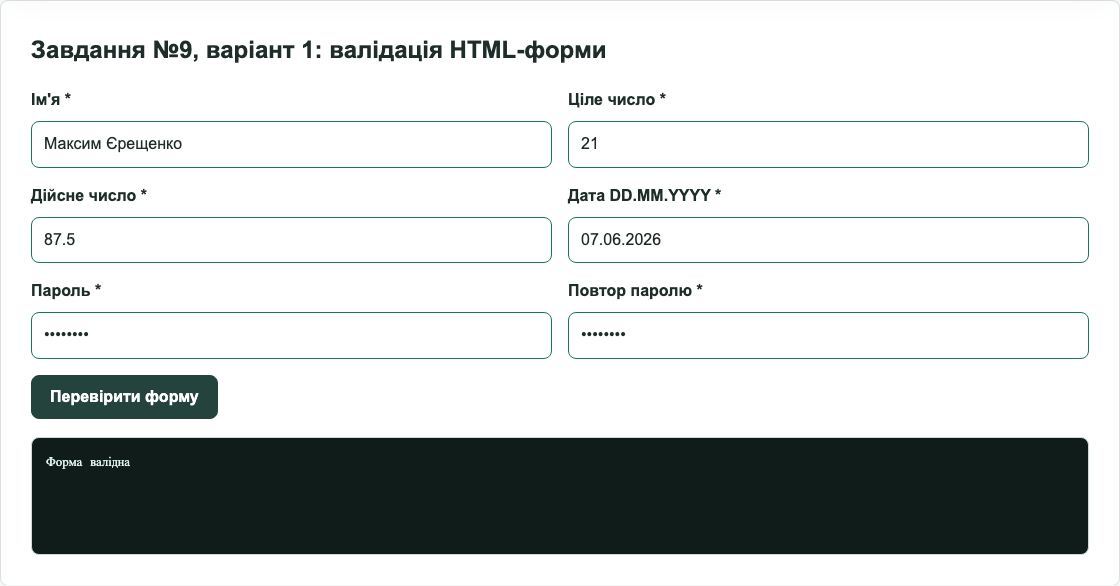
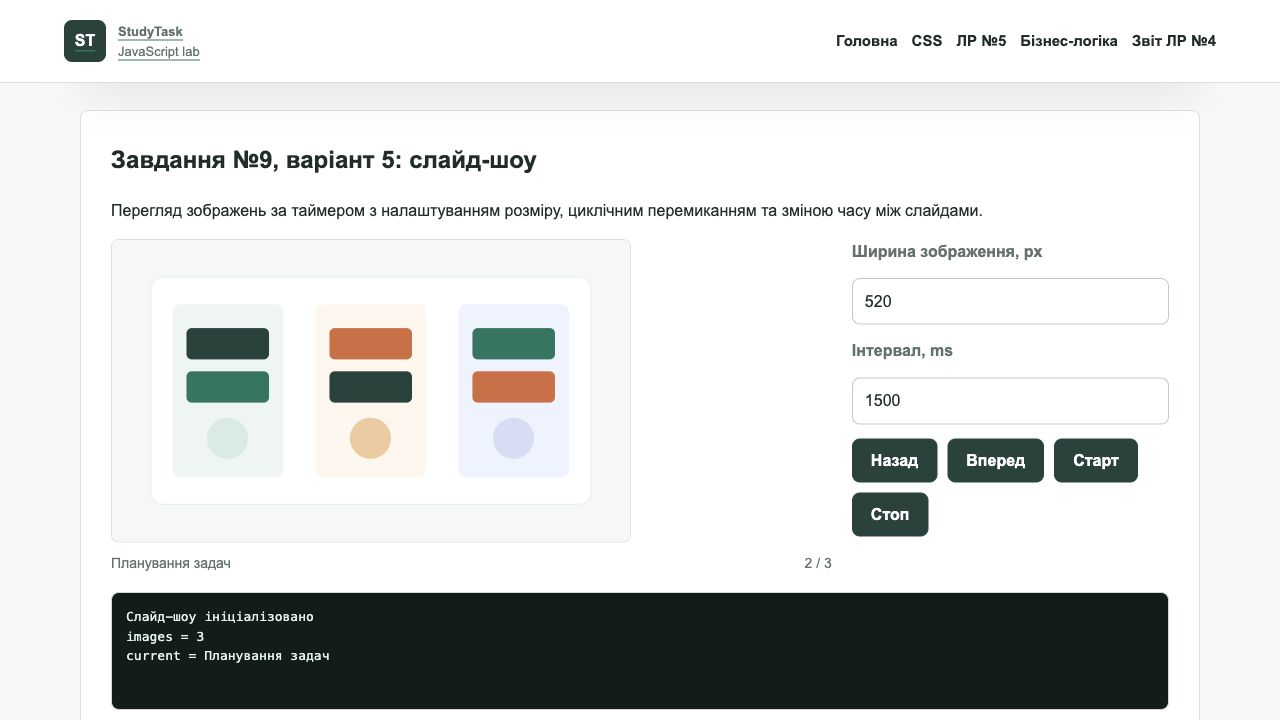
Оновлено звіт ЛР 4 після виправлення варіанта

diff --git a/index.html b/index.html
@@ -530,7 +530,7 @@ textarea[placeholder] {
               </tr>
               <tr>
                 <th scope="row">Варіант</th>
-                <td>Робоче припущення: непарна колонка для задач №1-6 та №8, варіант 1 для задач №7 і №9.</td>
+                <td>Номер у списку групи: 5. Для задач №1-6 та №8 використано непарну колонку, для задач №7 і №9 виконано варіант 5.</td>
               </tr>
               <tr>
                 <th scope="row">GitHub/GitHub Pages</th>
@@ -638,19 +638,20 @@ function authenticate(login, password) {
         </section>
 
         <section aria-labelledby="lab4-task7-title">
-          <h2 id="lab4-task7-title">Завдання №7: масив, перестановка, сортування вставкою</h2>
-          <p>Умова варіанта 1: створити масив, знайти максимальний серед парних елементів і мінімальний серед елементів з парними індексами, поміняти їх місцями, надрукувати масиви і виконати сортування вставкою.</p>
-          <pre class="code-block"><code>function processVariantOneArray(numbers) {
-  const swapped = [...numbers];
-  const maxEvenIndex = findIndexOfMaxEvenValue(swapped);
-  const minEvenIndexIndex = findIndexOfMinEvenIndex(swapped);
-  [swapped[maxEvenIndex], swapped[minEvenIndexIndex]] =
-    [swapped[minEvenIndexIndex], swapped[maxEvenIndex]];
-  return { source: numbers, swapped, sorted: insertionSortAscending(swapped) };
+          <h2 id="lab4-task7-title">Завдання №7: масив і сортування вибором</h2>
+          <p>Умова варіанта 5: створити одновимірний масив, визначити максимальне та мінімальне значення серед елементів із парними та непарними номерами, після цього упорядкувати масив за спаданням методом вибору.</p>
+          <pre class="code-block"><code>function processVariantFiveArray(numbers) {
+  const source = [...numbers];
+  return {
+    source,
+    oddPositions: getPositionStats(source, 1),
+    evenPositions: getPositionStats(source, 0),
+    sorted: selectionSortDescending(source),
+  };
 }</code></pre>
           <figure class="screenshot">
             <img src="assets/screenshots/lab4-task7.png" alt="Результат виконання завдання №7">
-            <figcaption>Вхідний масив, масив після перестановки та результат сортування методом вставки.</figcaption>
+            <figcaption>Вхідний масив, максимум/мінімум для непарних і парних позицій та результат сортування вибором за спаданням.</figcaption>
           </figure>
         </section>
 
@@ -672,20 +673,26 @@ function authenticate(login, password) {
         </section>
 
         <section aria-labelledby="lab4-task9-title">
-          <h2 id="lab4-task9-title">Завдання №9: валідація HTML-форми</h2>
-          <p>Умова варіанта 1: забезпечити перевірку цілого числа, дійсного числа, дати у форматі DD.MM.YYYY, однаковості паролів і обов'язкових полів.</p>
-          <pre class="code-block"><code>function validateRegistrationForm(data) {
-  const errors = [];
-  if (!data.name.trim()) errors.push("Ім'я є обов'язковим полем");
-  if (!/^-?\d+$/.test(data.age)) errors.push("Ціле число має містити тільки цифри");
-  if (!/^-?\d+([.,]\d+)?$/.test(data.rating)) errors.push("Некоректне дійсне число");
-  if (!isValidDate(data.date)) errors.push("Некоректна дата");
-  if (data.password !== data.confirm) errors.push("Паролі не збігаються");
-  return { valid: errors.length === 0, errors };
+          <h2 id="lab4-task9-title">Завдання №9: слайд-шоу</h2>
+          <p>Умова варіанта 5: реалізувати перегляд зображень за таймером, налаштування розміру зображень, циклічність перегляду та зміну часу між переключеннями.</p>
+          <pre class="code-block"><code>function startSlideshow() {
+  const interval = Number(document.getElementById("slideshow-interval").value);
+  stopSlideshow();
+  slideshowState.timerId = setInterval(
+    () =&gt; changeSlide(1),
+    Math.max(Number.isFinite(interval) ? interval : 1500, 500)
+  );
+}
+
+function changeSlide(direction) {
+  const nextIndex = slideshowState.currentIndex + direction;
+  slideshowState.currentIndex =
+    (nextIndex + slideshowImages.length) % slideshowImages.length;
+  renderSlideshow();
 }</code></pre>
           <figure class="screenshot">
             <img src="assets/screenshots/lab4-task9.png" alt="Результат виконання завдання №9">
-            <figcaption>Результат перевірки валідної HTML-форми реєстрації.</figcaption>
+            <figcaption>Слайд-шоу з кнопками перемикання, таймером, інтервалом та налаштуванням ширини зображення.</figcaption>
           </figure>
         </section>
 
@@ -703,7 +710,7 @@ function authenticate(login, password) {
         <section class="conclusion" aria-labelledby="lab4-conclusion-title">
           <h2 id="lab4-conclusion-title">Висновки до ЛР №4</h2>
           <p>
-            У лабораторній роботі №4 реалізовано задачі з основ JavaScript: використано <code>prompt()</code>, <code>alert()</code>, шаблонні рядки, <code>switch-case</code>, функції, одновимірні й двовимірні масиви, методи масивів, сортування вставкою та валідацію HTML-форми. Для перевірки створено окрему сторінку WEB-застосунку з кнопками запуску задач і console output.
+            У лабораторній роботі №4 реалізовано задачі з основ JavaScript: використано <code>prompt()</code>, <code>alert()</code>, шаблонні рядки, <code>switch-case</code>, функції, одновимірні й двовимірні масиви, методи масивів, сортування вибором за спаданням і слайд-шоу для варіанта 5. Для перевірки створено окрему сторінку WEB-застосунку з кнопками запуску задач, інтерактивними елементами і console output.
           </p>
         </section>
 
@@ -724,7 +731,7 @@ function authenticate(login, password) {
               </tr>
               <tr>
                 <th scope="row">Варіант</th>
-                <td>Робоче припущення: непарний номер у списку групи. Завдання №1: варіанти 1, 3, 5, 7, 9, 10. Завдання №2: варіанти 1, 3, 5, 7.</td>
+                <td>Номер у списку групи: 5, тобто непарний номер. Завдання №1: варіанти 1, 3, 5, 7, 9, 10. Завдання №2: варіанти 1, 3, 5, 7.</td>
               </tr>
               <tr>
                 <th scope="row">GitHub/GitHub Pages</th>
